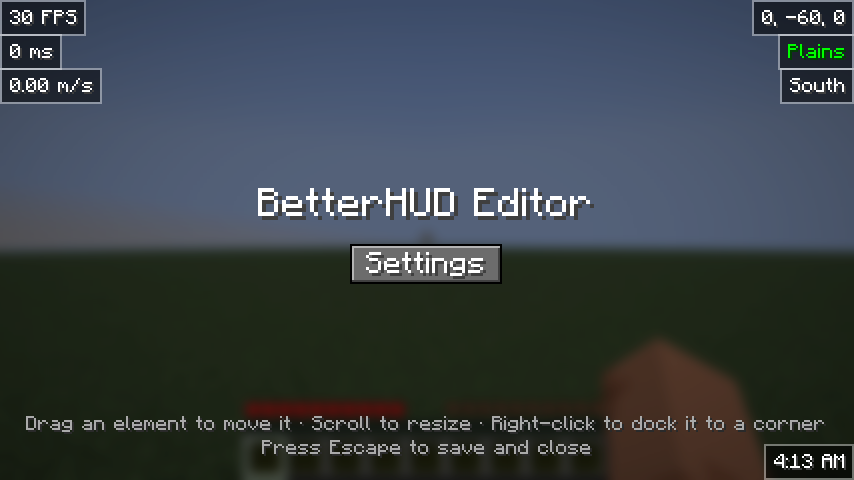
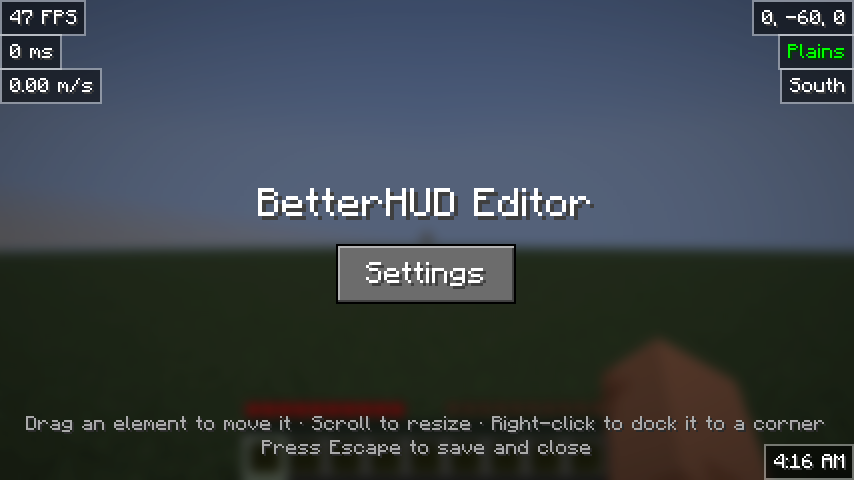
Match classic button padding on the Settings button
Uses vanilla's proportions scaled with the text: 20px-tall box with the
label centered at (height - 8) / 2 and ~10px side padding.

Claude-Session: https://claude.ai/code/session_016M8Paub79s9he93GZUGemX

Changed region(s): [[0.3958, 0.5, 0.6089, 0.6562], [0.0, 0.0, 0.0609, 0.0625]]

diff --git a/src/main/java/dsns/betterhud/HudEditorScreen.java b/src/main/java/dsns/betterhud/HudEditorScreen.java
@@ -484,10 +484,12 @@ public class HudEditorScreen extends Screen {
             return;
         }
 
+        // Classic button proportions (20px tall, text centered at
+        // (height - 8) / 2, ~10px side padding), scaled with the text.
         String label = I18n.get("betterhud.editor.settings");
         settingsButtonWidth =
-            (int) (client.font.width(label) * BUTTON_TEXT_SCALE) + 16;
-        settingsButtonHeight = 20;
+            (int) ((client.font.width(label) + 20) * BUTTON_TEXT_SCALE);
+        settingsButtonHeight = (int) (20 * BUTTON_TEXT_SCALE);
         settingsButtonX = (this.width - settingsButtonWidth) / 2;
         settingsButtonY = this.height / 2 + 2;
 
@@ -520,7 +522,8 @@ public class HudEditorScreen extends Screen {
             drawContext,
             client,
             label,
-            settingsButtonY + 4,
+            settingsButtonY +
+                (int) ((settingsButtonHeight - 8 * BUTTON_TEXT_SCALE) / 2),
             TEXT_COLOR,
             BUTTON_TEXT_SCALE
         );